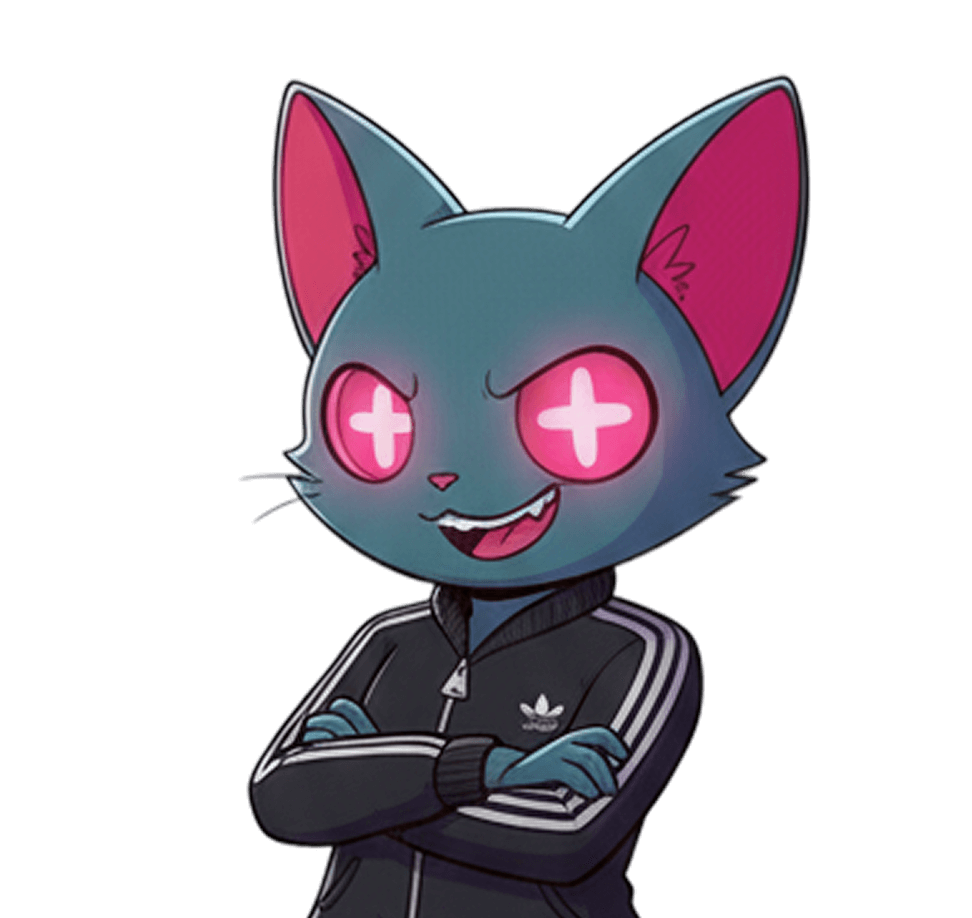
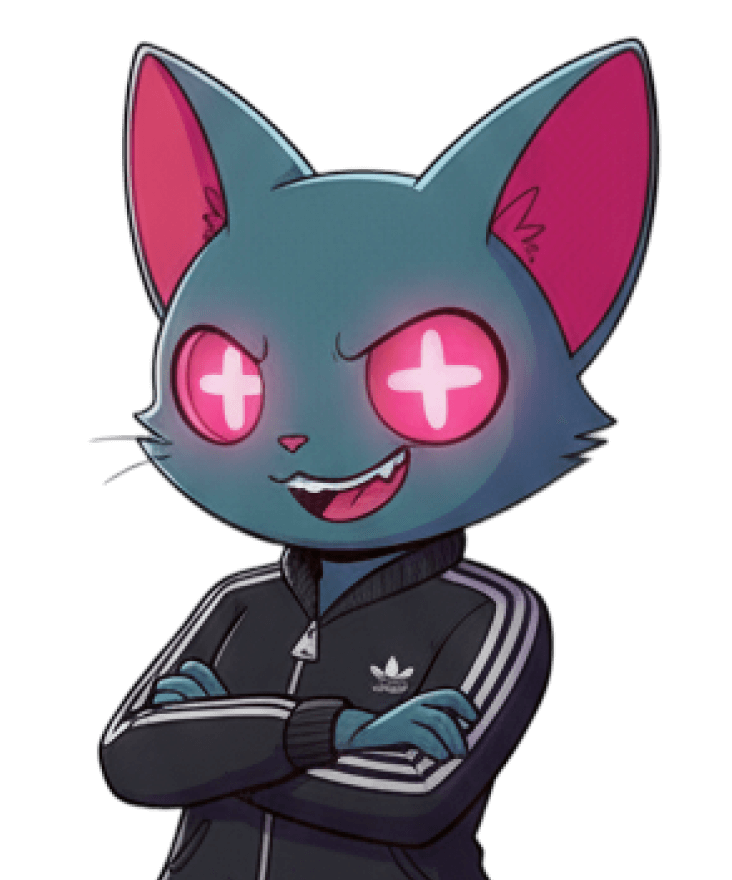
add Index-Delivery

diff --git a/src/styles/blocks/index/_delivery-banner.scss b/src/styles/blocks/index/_delivery-banner.scss
@@ -1,0 +1,144 @@
+@use "../../common/variables" as *;
+
+.delivery-banner {
+  color: $color-default-black;
+  background-color: $color-default-white;
+  border-radius: 60px;
+  box-shadow: 0 10px 0 $color-default-grey;
+  transform: rotate(-4deg);
+
+  &__wrapper {
+    display: flex;
+    justify-content: space-between;
+    overflow: hidden;
+    border-radius: 60px;
+  }
+
+  &__text {
+    display: flex;
+    flex-direction: column;
+    position: relative;
+    padding: 46px 0 40px 34px;
+    transform: rotate(4deg);
+    z-index: 1;
+  }
+
+  &__title {
+    max-width: 512px;
+    margin: 0 0 20px;
+  }
+
+  &__subtitle {
+    color: $color-text-black;
+    font-weight: 700;
+    letter-spacing: 1px;
+    max-width: 350px;
+    margin: 0 0 70px;
+  }
+
+  &__button {
+    display: inline-block;
+    align-self: flex-start;
+  }
+
+  &__image {
+    align-self: flex-end;
+    flex-shrink: 1;
+    width: 366px;
+    min-width: 100px;
+    aspect-ratio: 366 / 440;
+    transform: rotate(4deg);
+    transform-origin: 0;
+    margin-right: 31px;
+
+    img {
+      width: 100%;
+      height: 100%;
+    }
+  }
+
+  @media (max-width: 1240px) {
+    &__title {
+      max-width: 498px;
+    }
+  }
+
+  @media (max-width: 1024px) {
+    &__title {
+      max-width: 412px;
+    }
+
+    &__subtitle {
+      margin: 0 0 55px;
+    }
+
+    &__image {
+      width: 291px;
+      margin-right: 0;
+    }
+  }
+
+  @media (max-width: 768px) {
+    border-radius: 40px;
+    transform: none;
+    box-shadow: none;
+
+    &__wrapper {
+      position: relative;
+      border-radius: 40px;
+    }
+
+    &__text {
+      padding: 30px 0 30px 20px;
+      transform: none;
+    }
+
+    &__title {
+      max-width: 370px;
+      font-size: 5.5vw;
+      margin: 0 0 10px;
+    }
+
+    &__subtitle {
+      max-width: 330px;
+      margin: 0 0 15px;
+      font-size: 16px;
+      line-height: 1.3;
+    }
+
+    &__button {
+      margin-top: auto;
+    }
+
+    &__image {
+      transform: none;
+      max-width: 300px;
+    }
+  }
+
+  @media (max-width: 425px) {
+    border-radius: 25px;
+
+    &__wrapper {
+      border-radius: 25px;
+    }
+
+    &__text {
+      padding: 15px 0 15px 15px;
+    }
+
+    &__subtitle {
+      font-size: 14px;
+      line-height: 110%;
+      margin: 0 0 10px;
+    }
+
+    &__button {
+      transform: scale(0.8) translateX(-10%);
+    }
+
+    &__image {
+      margin-right: -10px;
+    }
+  }
+}

diff --git a/src/index.html b/src/index.html
@@ -297,6 +297,22 @@
           </div>
         </div>
       </section>
+      <div class="index-delivery">
+        <div class="index-delivery__container container">
+          <div class="index-delivery__banner delivery-banner">
+            <div class="delivery-banner__wrapper">
+              <div class="delivery-banner__text">
+                <p class="delivery-banner__title title">М-я-я, провинция&nbsp;моя...&nbsp;❤</p>
+                <p class="delivery-banner__subtitle">Веселящий газ теперь можно заказать в любой регион России!</p>
+                <a class="delivery-banner__button button button--light" href="#">Подробнее</a>
+              </div>
+              <div class="delivery-banner__image">
+                <img src="./img/index/delivery/cat-delivery-banner.png" width="366" height="440" alt="Кот-кайфун" />
+              </div>
+            </div>
+          </div>
+        </div>
+      </div>
     </main>
     <footer></footer>
     <script type="module" src="./main.js"></script>

diff --git a/src/styles/styles.scss b/src/styles/styles.scss
@@ -2,6 +2,7 @@
 @use "./common/fonts";
 @use "./common/global";
 
+// -- components
 @use "./blocks/common/container";
 @use "./blocks/common/title";
 @use "./blocks/common/subtitle";
@@ -10,13 +11,19 @@
 @use "./blocks/common/type-tab-buttons";
 @use "./blocks/common/slider-button";
 @use "./blocks/common/showmore-button";
-@use "./blocks/common/nav";
 @use "./blocks/common/phone";
+
+// -- blocks
+@use "./blocks/common/nav";
+@use "./blocks/index/catalog-preview";
+@use "./blocks/index/short-feature";
+@use "./blocks/index/sales-banner";
+@use "./blocks/index/delivery-banner";
+
+// -- sections
 @use "./blocks/common/header";
 @use "./blocks/index/hero";
 @use "./blocks/index/short-catalog";
-@use "./blocks/index/catalog-preview";
 @use "./blocks/index/short-features";
-@use "./blocks/index/short-feature";
-@use "./blocks/index/sales-banner";
 @use "./blocks/index/short-about";
+@use "./blocks/index/index-delivery";

diff --git a/src/styles/blocks/index/_sales-banner.scss b/src/styles/blocks/index/_sales-banner.scss
@@ -5,6 +5,7 @@
   color: $color-default-white;
   border-radius: 60px;
   overflow: hidden;
+  transform: rotate(-4deg);
 
   &__slider {
     position: relative;
@@ -15,7 +16,7 @@
     border-radius: 60px;
     background-color: $color-default-black;
     overflow: hidden;
-    box-shadow: inset 0 -10px 0 #494949;
+    box-shadow: inset 0 -10px 0 $color-default-grey;
   }
 
   &__item {
@@ -92,6 +93,7 @@
 
   @media (max-width: 768px) {
     border-radius: 40px;
+    transform: none;
 
     &__slider-item {
       border-radius: 40px;

diff --git a/src/styles/blocks/index/_catalog-preview.scss b/src/styles/blocks/index/_catalog-preview.scss
@@ -111,7 +111,7 @@
     font-size: 18px;
     line-height: 130%;
     font-weight: 700;
-    color: $color-default-grey;
+    color: $color-default-lightgrey;
     letter-spacing: -0.2px;
     text-transform: lowercase;
   }
@@ -326,7 +326,7 @@
       &__info {
         width: 100%;
         padding: 20px;
-        border-top: 2px solid $color-default-grey;
+        border-top: 2px solid $color-default-lightgrey;
         min-height: auto;
       }
     }

diff --git a/src/styles/blocks/index/_short-features.scss b/src/styles/blocks/index/_short-features.scss
@@ -90,7 +90,6 @@
     width: 100%;
     bottom: 146px;
     left: 0;
-    transform: rotate(-4deg);
   }
 
   @media (max-width: 1240px) {
@@ -191,12 +190,11 @@
 
     &__banner {
       bottom: 52px;
-      transform: none;
     }
   }
 
   @media (max-width: 425px) {
-    padding: 30px 0;
+    padding: 30px 0 5px;
 
     &__wrapper {
       padding: 0 0 196px;

diff --git a/src/styles/common/_variables.scss b/src/styles/common/_variables.scss
@@ -1,6 +1,7 @@
 $color-default-black: #1a272e;
 $color-default-white: #ffffff;
-$color-default-grey: #7e7e7e;
+$color-default-lightgrey: #7e7e7e;
+$color-default-grey: #494949;
 
 $color-text-black: #324855;
 $color-text-white: #efefef;

diff --git a/src/styles/blocks/index/_index-delivery.scss b/src/styles/blocks/index/_index-delivery.scss
@@ -1,0 +1,15 @@
+.index-delivery {
+  padding: 107px 0 192px;
+
+  &__banner {
+    width: 100%;
+  }
+
+  @media (max-width: 768px) {
+    padding: 60px 0;
+  }
+
+  @media (max-width: 425px) {
+    padding: 30px 0;
+  }
+}

diff --git a/src/styles/common/_global.scss b/src/styles/common/_global.scss
@@ -36,6 +36,7 @@ body {
 
   @media (max-width: 768px) {
     font-size: 16px;
+    line-height: 130%;
   }
 
   @media (max-width: 425px) {
